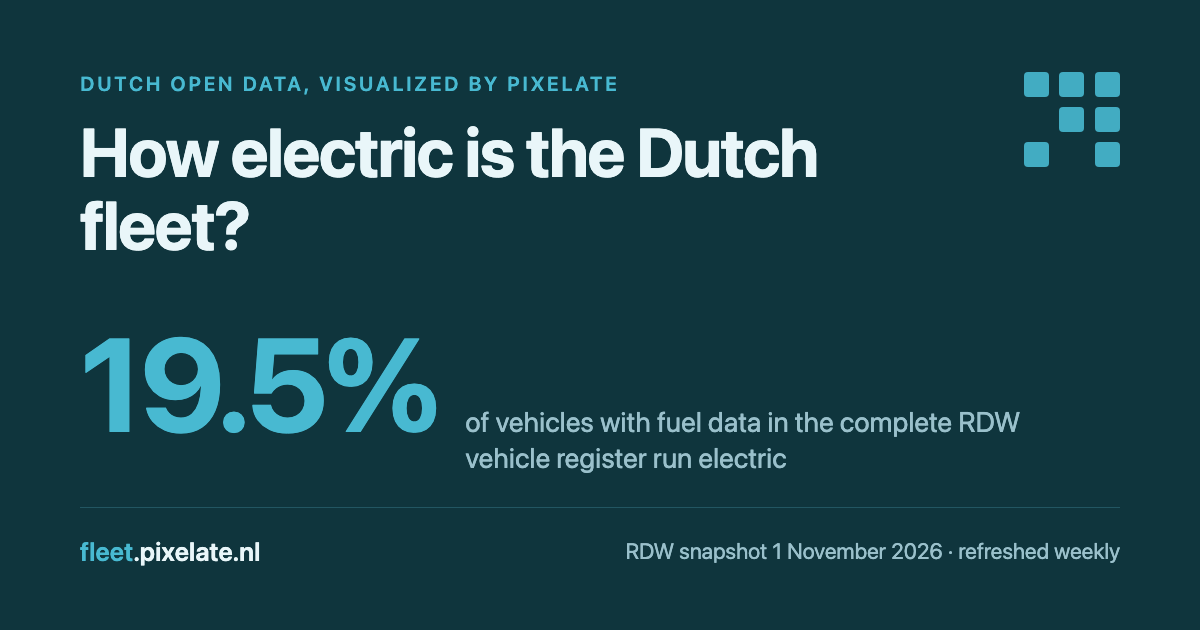
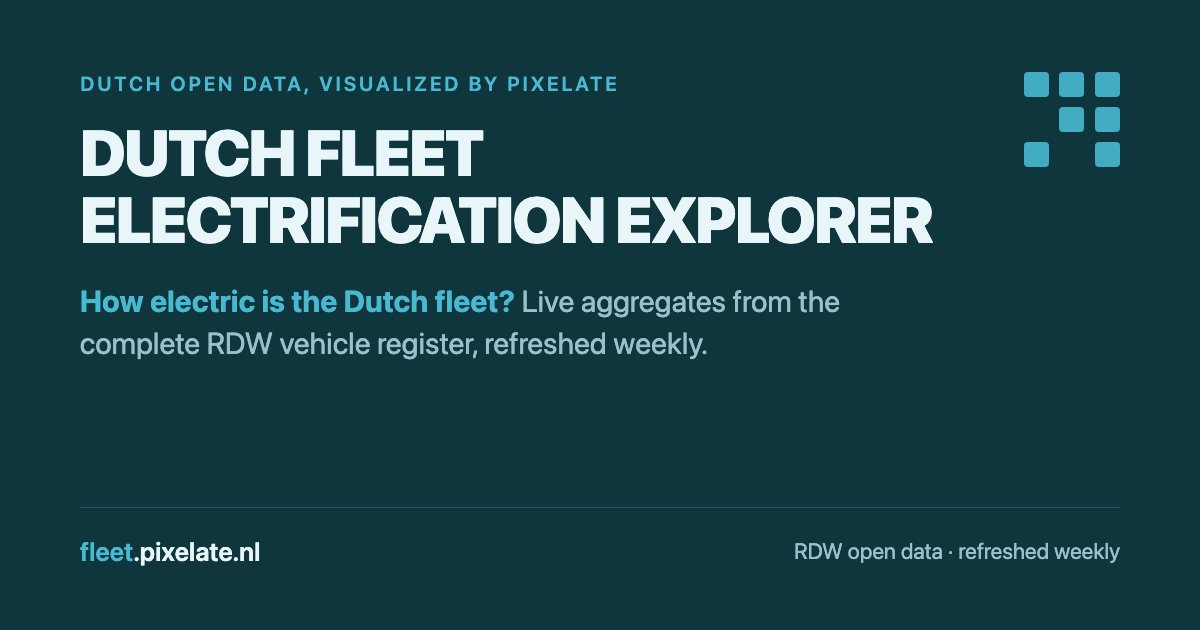
SEO pass: derived metadata, full sharing surface
Every figure the metadata carries derives from the committed
snapshot at build time through Next's static metadata path: the
title names the product (50 chars), the description lands in the
150-to-160 band with the register total and the electric-drive share
in the page's own formats, and the JSON-LD moves into the page head
as a Dataset node (RDW provider attribution, CC0, source repository,
dateModified from the retrieval date) plus a minimal WebSite node.
The Open Graph image is redesigned around the product name and a
stable tagline — no figures, so it never goes stale; the derived
description carries the numbers. Canonical URL and site name move to
src/family.ts (siteUrl/siteName) with the crawl files resolving
against them, and docs/data-notes.md documents the approach. No
runtime JavaScript, no pipeline references; narration contexts are
untouched.

Generated by Mistral Vibe.

Changed region(s): [[0.0617, 0.181, 0.8017, 0.4222], [0.0617, 0.4524, 0.8633, 0.754], [0.5242, 0.8444, 0.8017, 0.9048]]

diff --git a/app/layout.tsx b/app/layout.tsx
@@ -3,16 +3,45 @@ import "./globals.css";
 import { FamilyHeader } from "@/components/family-header";
 import { FamilyFooter } from "@/components/family-footer";
 import { MethodDrawer } from "@/components/method-drawer";
+import { FAMILY } from "@/family";
+import {
+  snapshot,
+  electricShareOfFuelVehicles,
+  formatNumber,
+  formatPercent,
+} from "@/data/snapshot";
 
-const SITE_URL = "https://fleet.pixelate.nl";
-const SITE_DESCRIPTION =
-  "How electric is the Dutch fleet? Live aggregates from the complete RDW vehicle register, refreshed weekly and visualized by Pixelate.";
+/*
+  Site metadata, derived at build time from the committed snapshot —
+  the same derived-not-hardcoded rule the page follows, so the numbers
+  in the meta tags can never go stale between weekly rebuilds. The
+  title names the product in under sixty characters; the description
+  carries the register total and the electric-drive share, formatted
+  and rounded exactly as the page renders them, and lands in the
+  150-to-160-character band on the current snapshot. Every figure is
+  computed in this module scope at build time through Next's static
+  metadata path: no runtime code, no pipeline calls, no numbers
+  copied by hand.
+*/
+const SITE_TITLE = `${FAMILY.productName} | ${FAMILY.organization}`;
+const SITE_DESCRIPTION = `${formatPercent(electricShareOfFuelVehicles)} of the ${formatNumber(
+  snapshot.totals.vehiclesWithFuelData,
+)} Dutch vehicles with fuel data run electric — live aggregates from the complete ${formatNumber(
+  snapshot.totals.vehicles,
+)}-vehicle RDW register, refreshed weekly.`;
+
+/*
+  A stable alt for the Open Graph image: the image itself carries no
+  figures, so neither layer can go stale between rebuilds — the
+  derived description carries the numbers instead.
+*/
+const OG_IMAGE_ALT = `The ${FAMILY.productName} in the Pixelate family's dark display style: the product name, its question, and the RDW open-data credit.`;
 
 export const metadata: Metadata = {
-  metadataBase: new URL(SITE_URL),
+  metadataBase: new URL(FAMILY.siteUrl),
   title: {
-    default: "Dutch Fleet Electrification Explorer",
-    template: "%s | Dutch Fleet Electrification Explorer",
+    default: SITE_TITLE,
+    template: `%s | ${FAMILY.productName}`,
   },
   description: SITE_DESCRIPTION,
   keywords: [
@@ -23,16 +52,19 @@ export const metadata: Metadata = {
     "data visualization",
     "EV statistics",
   ],
-  authors: [{ name: "Pixelate BV", url: "https://pixelate.nl" }],
+  authors: [{ name: FAMILY.organization, url: FAMILY.organizationUrl }],
+  // Next normalizes the site root to its slashless form
+  // (https://fleet.pixelate.nl), which URLs resolve identically, so
+  // the canonical and og:url stay on the metadata path instead of a
+  // duplicated raw tag.
   alternates: {
     canonical: "/",
   },
   openGraph: {
-    title: "Dutch Fleet Electrification Explorer",
-    description:
-      "Live aggregates from the complete RDW vehicle register, visualized by Pixelate.",
+    title: SITE_TITLE,
+    description: SITE_DESCRIPTION,
     type: "website",
-    siteName: "fleet.pixelate.nl",
+    siteName: FAMILY.siteName,
     url: "/",
     locale: "en",
     images: [
@@ -40,13 +72,13 @@ export const metadata: Metadata = {
         url: "/images/og.png",
         width: 1200,
         height: 630,
-        alt: "How electric is the Dutch fleet? 19.5 percent of vehicles with fuel data run electric",
+        alt: OG_IMAGE_ALT,
       },
     ],
   },
   twitter: {
     card: "summary_large_image",
-    title: "Dutch Fleet Electrification Explorer",
+    title: SITE_TITLE,
     description: SITE_DESCRIPTION,
     images: ["/images/og.png"],
   },
@@ -54,6 +86,44 @@ export const metadata: Metadata = {
     index: true,
     follow: true,
   },
+};
+
+/*
+  Structured data in the page head, one node per file the static
+  export serves. The Dataset node is the honest type for a page built
+  from aggregates: the attribution states that the aggregates derive
+  from the RDW open data (opendata.rdw.nl), the license is the CC0 the
+  source carries, the repository is where the site's code lives, and
+  dateModified is the snapshot's retrieval date. The WebSite node is
+  minimal: the product and its canonical URL.
+*/
+const datasetJsonLd = {
+  "@context": "https://schema.org",
+  "@type": "Dataset",
+  name: "Dutch fleet aggregates from the RDW vehicle register",
+  description: SITE_DESCRIPTION,
+  url: FAMILY.siteUrl,
+  isAccessibleForFree: true,
+  license: "https://creativecommons.org/publicdomain/zero/1.0/",
+  creator: {
+    "@type": "Organization",
+    name: FAMILY.organization,
+    url: FAMILY.organizationUrl,
+  },
+  provider: {
+    "@type": "Organization",
+    name: "RDW (Rijksdienst voor het Wegverkeer)",
+    url: "https://opendata.rdw.nl",
+  },
+  sameAs: FAMILY.sourceUrl,
+  dateModified: snapshot.retrievedAt,
+};
+
+const websiteJsonLd = {
+  "@context": "https://schema.org",
+  "@type": "WebSite",
+  name: FAMILY.productName,
+  url: FAMILY.siteUrl,
 };
 
 /*
@@ -88,6 +158,14 @@ export default function RootLayout({
     <html lang="en" suppressHydrationWarning>
       <head>
         <script dangerouslySetInnerHTML={{ __html: themeInitScript }} />
+        <script
+          type="application/ld+json"
+          dangerouslySetInnerHTML={{ __html: JSON.stringify(datasetJsonLd) }}
+        />
+        <script
+          type="application/ld+json"
+          dangerouslySetInnerHTML={{ __html: JSON.stringify(websiteJsonLd) }}
+        />
       </head>
       <body className="min-h-screen bg-background text-foreground antialiased">
         <div className="flex min-h-screen flex-col">

diff --git a/design/og-image.html b/design/og-image.html
@@ -4,7 +4,10 @@
 <meta charset="utf-8">
 <style>
   /* Brand values mirror app/globals.css: dark theme background #0F353D,
-     primary #48B9D1, foreground #E9F6F9, muted-foreground #9AC0CB. */
+     primary #48B9D1, foreground #E9F6F9, muted-foreground #9AC0CB.
+     No figures live on this image: every number the page states derives
+     from the committed snapshot through the meta description, so the
+     image never goes stale between weekly rebuilds. */
   * { margin: 0; padding: 0; box-sizing: border-box; }
   html, body { width: 1200px; height: 630px; overflow: hidden; }
   body {
@@ -18,7 +21,7 @@
     padding: 72px 80px 64px;
     position: relative;
   }
-  /* Decorative pixel grid echoing app/icon.svg, bottom right. */
+  /* Decorative pixel grid echoing app/icon.svg, top right. */
   .pixels {
     position: absolute;
     right: 80px;
@@ -44,32 +47,31 @@
     letter-spacing: 0.14em;
     text-transform: uppercase;
     color: #48B9D1;
-    margin-bottom: 20px;
+    margin-bottom: 24px;
   }
+  /* The product name in the family display style the page's hero uses:
+     top weight, capitals, tight tracking. */
   h1 {
-    font-size: 68px;
-    line-height: 1.08;
-    font-weight: 700;
-    letter-spacing: -0.02em;
-    max-width: 820px;
-  }
-  .share {
-    display: flex;
-    align-items: baseline;
-    gap: 28px;
-    margin-top: 12px;
-  }
-  .share .number {
-    font-size: 132px;
-    font-weight: 700;
+    font-size: 64px;
+    line-height: 1.04;
+    font-weight: 900;
     letter-spacing: -0.03em;
-    color: #48B9D1;
+    text-transform: uppercase;
+    text-wrap: balance;
+    max-width: 980px;
   }
-  .share .label {
-    font-size: 28px;
-    line-height: 1.3;
+  /* Stable tagline: the product's question in the family accent, then
+     the standing promise. Nothing here changes with the data. */
+  .tagline {
+    margin-top: 28px;
+    font-size: 30px;
+    line-height: 1.4;
     color: #9AC0CB;
-    max-width: 560px;
+    max-width: 860px;
+  }
+  .tagline strong {
+    font-weight: 700;
+    color: #48B9D1;
   }
   footer {
     display: flex;
@@ -100,15 +102,12 @@
   </div>
   <div>
     <p class="kicker">Dutch open data, visualized by Pixelate</p>
-    <h1>How electric is the Dutch fleet?</h1>
-  </div>
-  <div class="share">
-    <div class="number">19.5%</div>
-    <div class="label">of vehicles with fuel data in the complete RDW vehicle register run electric</div>
+    <h1>Dutch Fleet Electrification Explorer</h1>
+    <p class="tagline"><strong>How electric is the Dutch fleet?</strong> Live aggregates from the complete RDW vehicle register, refreshed weekly.</p>
   </div>
   <footer>
     <div class="domain"><em>fleet</em>.pixelate.nl</div>
-    <div class="meta">RDW snapshot 1 November 2026 &middot; refreshed weekly</div>
+    <div class="meta">RDW open data &middot; refreshed weekly</div>
   </footer>
 </body>
 </html>

diff --git a/app/page.tsx b/app/page.tsx
@@ -109,29 +109,8 @@ export default function Home() {
     { label: "Motorcycle", value: ferrari.motorcycle, accent: false },
   ];
 
-  const datasetJsonLd = {
-    "@context": "https://schema.org",
-    "@type": "Dataset",
-    name: "Dutch fleet aggregates from the RDW vehicle register",
-    description:
-      "How electric is the Dutch fleet? Live aggregates from the complete RDW vehicle register, refreshed weekly and visualized by Pixelate.",
-    url: "https://fleet.pixelate.nl",
-    isAccessibleForFree: true,
-    license: "https://creativecommons.org/publicdomain/zero/1.0/",
-    creator: {
-      "@type": "Organization",
-      name: "Pixelate BV",
-      url: "https://pixelate.nl",
-    },
-    dateModified: snapshot.retrievedAt,
-  };
-
   return (
     <div className="mx-auto max-w-[1536px] px-4 py-10 sm:px-6 sm:py-16">
-      <script
-        type="application/ld+json"
-        dangerouslySetInnerHTML={{ __html: JSON.stringify(datasetJsonLd) }}
-      />
       <section className="mb-12">
         {/*
           Editorial cover, directly on the splash canvas — like the

diff --git a/src/family.ts b/src/family.ts
@@ -6,6 +6,14 @@ export const FAMILY = {
   organization: "Pixelate BV",
   organizationUrl: "https://pixelate.nl",
   productName: "Dutch Fleet Electrification Explorer",
+  /** Short site name used for og:site_name. */
+  siteName: "fleet.pixelate.nl",
+  /**
+   * Canonical production URL of this product site. The canonical meta
+   * tag, the Open Graph URL and the crawl files all resolve against it,
+   * so a domain move is a one-place change here.
+   */
+  siteUrl: "https://fleet.pixelate.nl",
   /**
    * Launcher website of the Open Data Project, which gathers all the
    * open data projects.

diff --git a/app/sitemap.ts b/app/sitemap.ts
@@ -1,4 +1,5 @@
 import type { MetadataRoute } from "next";
+import { FAMILY } from "@/family";
 import { snapshot } from "@/data/snapshot";
 
 export const dynamic = "force-static";
@@ -6,7 +7,7 @@ export const dynamic = "force-static";
 export default function sitemap(): MetadataRoute.Sitemap {
   return [
     {
-      url: "https://fleet.pixelate.nl",
+      url: `${FAMILY.siteUrl}/`,
       lastModified: new Date(snapshot.retrievedAt),
       changeFrequency: "weekly",
       priority: 1,

diff --git a/app/robots.ts b/app/robots.ts
@@ -1,4 +1,5 @@
 import type { MetadataRoute } from "next";
+import { FAMILY } from "@/family";
 
 export const dynamic = "force-static";
 
@@ -8,6 +9,6 @@ export default function robots(): MetadataRoute.Robots {
       userAgent: "*",
       allow: "/",
     },
-    sitemap: "https://fleet.pixelate.nl/sitemap.xml",
+    sitemap: `${FAMILY.siteUrl}/sitemap.xml`,
   };
 }

diff --git a/docs/data-notes.md b/docs/data-notes.md
@@ -132,3 +132,31 @@ log small residuals in the run log:
   secondary diesel rows.
 
 A negative category always fails the snapshot.
+
+## Derived site metadata
+
+The page's derived-not-hardcoded rule extends to the SEO surface: the
+title and meta description, the Open Graph/Twitter tags and the JSON-LD
+Dataset node are all computed in `app/layout.tsx` at module scope from
+the committed `src/data/snapshot.json` at build time, through Next's
+static metadata path — no runtime code, no pipeline references, no
+numbers copied by hand, so the meta description can never go stale
+between the weekly rebuilds. The figures keep the page's own formats:
+`formatNumber` (en-GB) for counts and `formatPercent` (one decimal) for
+the electric share. The description sits in the 150-to-160-character
+band on the current snapshot; it floats a few characters per week with
+the number widths, which is expected.
+
+Two things are deliberately figure-free so they never go stale: the
+`public/images/og.png` Open Graph image (rebuilt from
+`design/og-image.html` with headless Chrome; it carries the product
+name and a stable tagline only) and its `og:image:alt`. The structured
+data has two nodes in the page head: a schema.org **Dataset** (creator
+Pixelate, provider RDW with the opendata.rdw.nl attribution, CC0
+license, the source repository via `sameAs`, `dateModified` from the
+snapshot's retrieval date) and a minimal **WebSite** node. The
+canonical URL (`https://fleet.pixelate.nl/`) and the shared site name
+live in `src/family.ts` as `siteUrl`/`siteName`, next to the existing
+launcher and source URLs, so the family's other product sites inherit
+the pattern. `app/robots.ts` and `app/sitemap.ts` resolve against the
+same constants.
